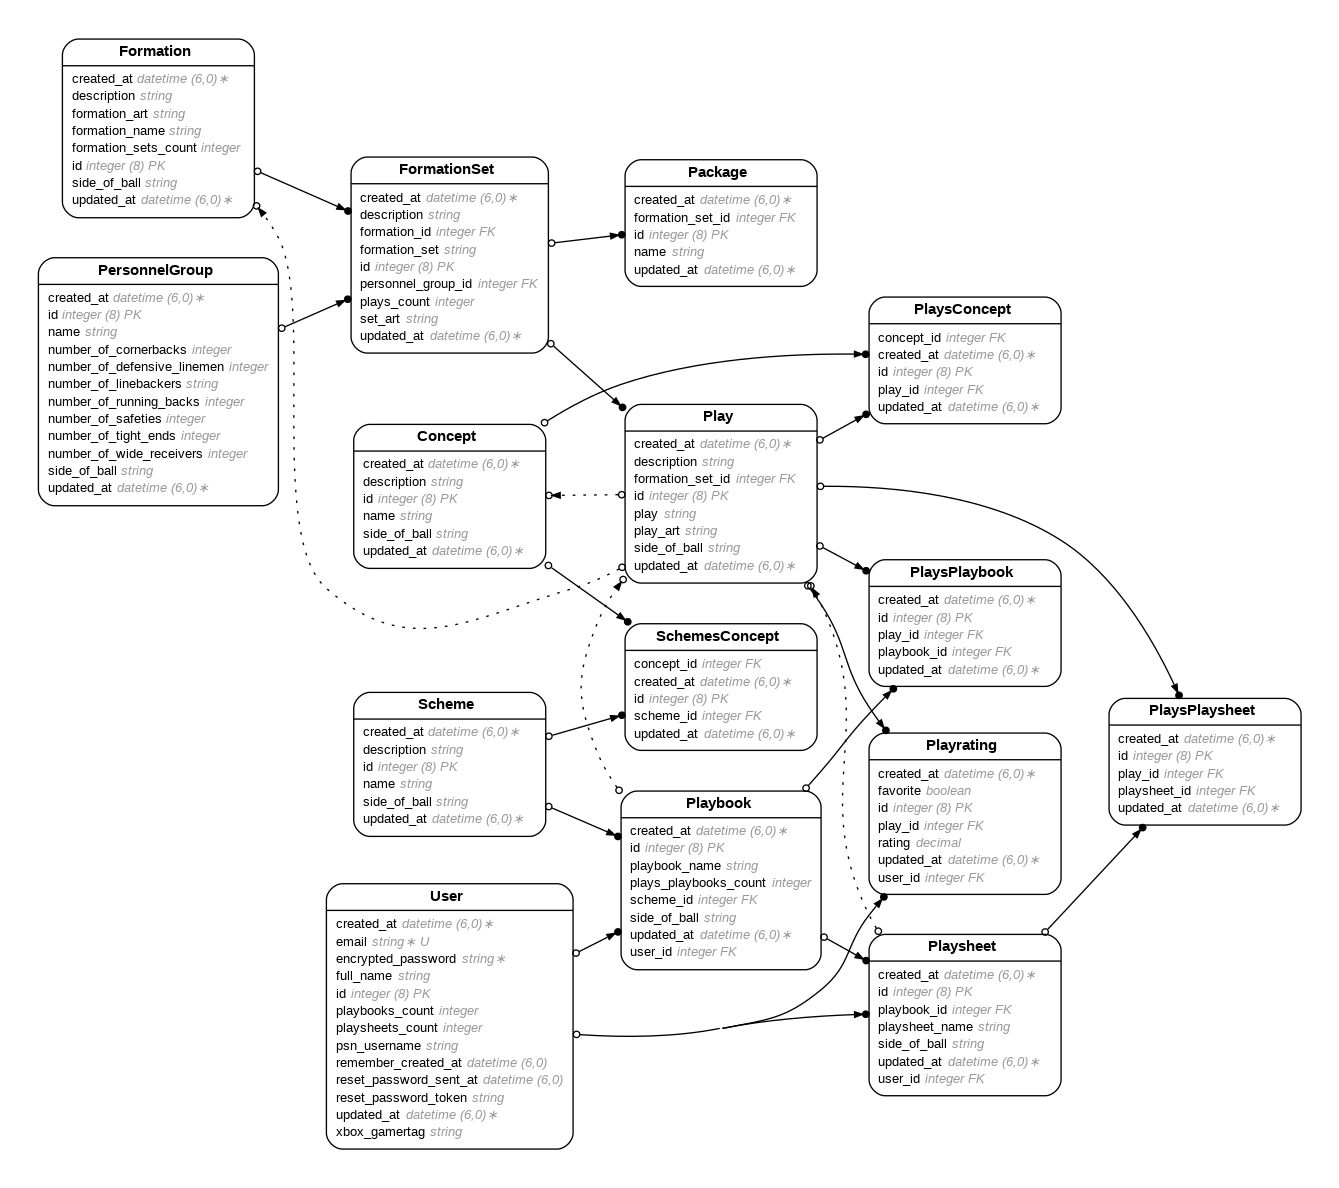
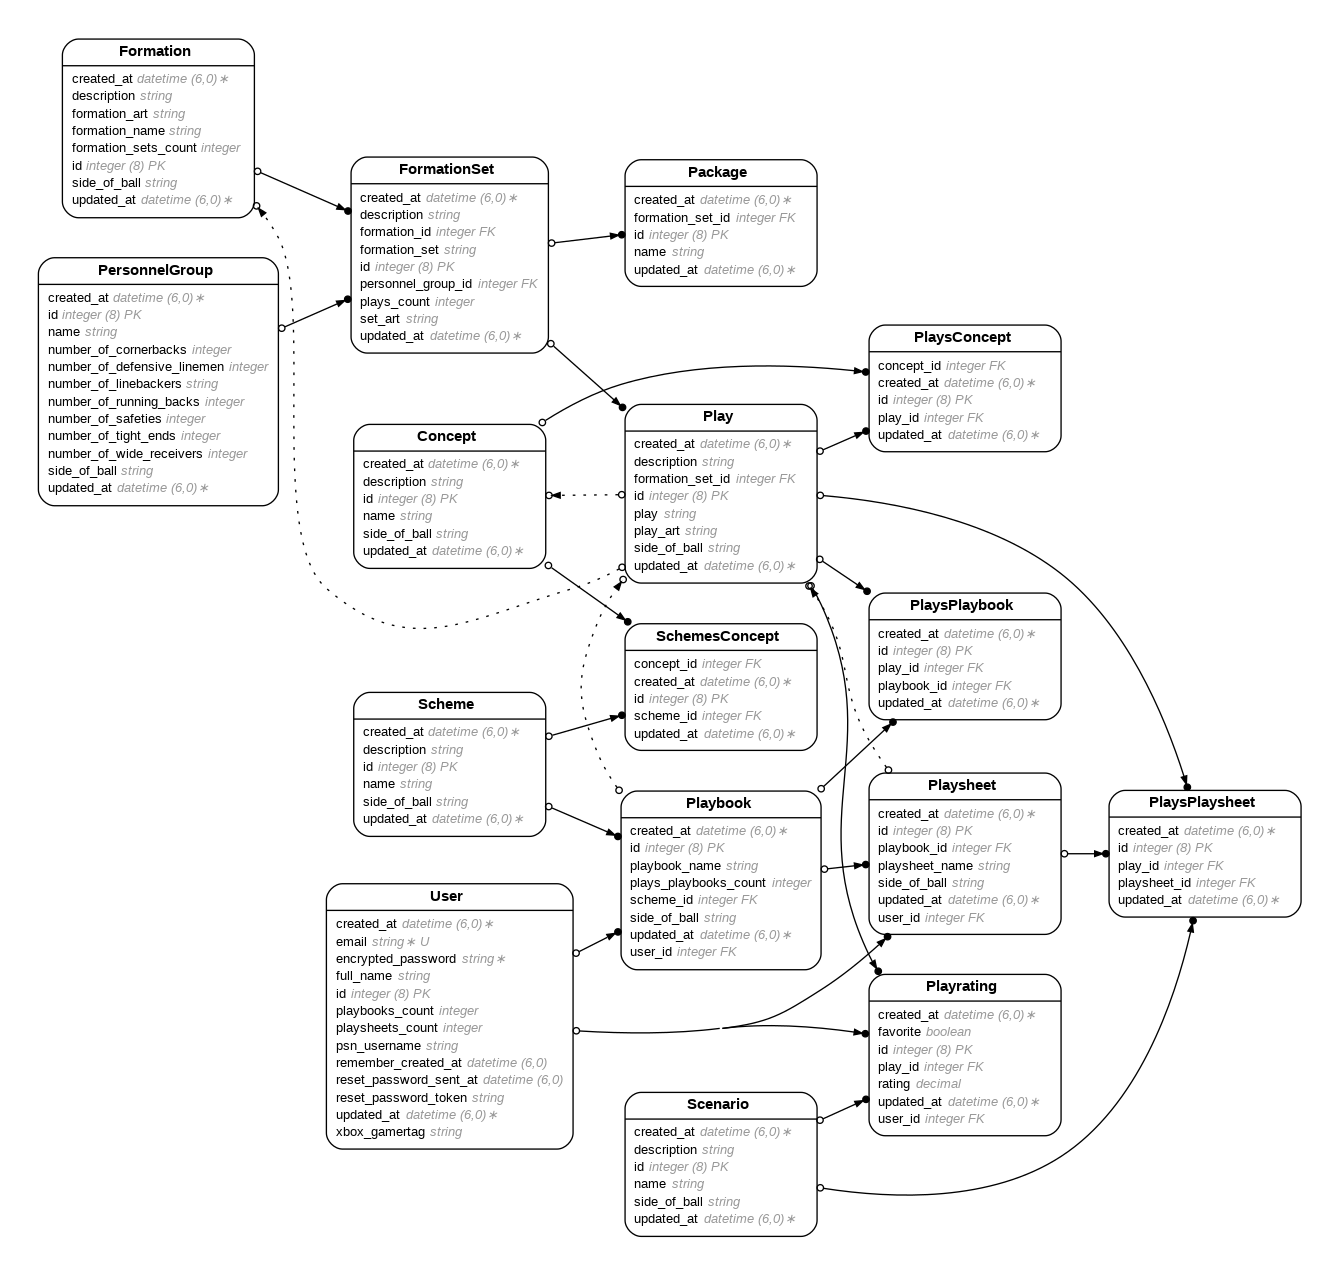
adding scenarios

diff --git a/app/controllers/scenarios_controller.rb b/app/controllers/scenarios_controller.rb
@@ -1,0 +1,58 @@
+class ScenariosController < ApplicationController
+  def index
+    matching_scenarios = Scenario.all
+
+    @list_of_scenarios = matching_scenarios.order({ :created_at => :desc })
+
+    render({ :template => "scenario_templates/index" })
+  end
+
+  def show
+    the_id = params.fetch("path_id")
+
+    matching_scenarios = Scenario.where({ :id => the_id })
+
+    @the_scenario = matching_scenarios.at(0)
+
+    render({ :template => "scenario_templates/show" })
+  end
+
+  def create
+    the_scenario = Scenario.new
+    the_scenario.name = params.fetch("query_name")
+    the_scenario.description = params.fetch("query_description")
+    the_scenario.side_of_ball = params.fetch("query_side_of_ball")
+
+    if the_scenario.valid?
+      the_scenario.save
+      redirect_to("/scenarios", { :notice => "Scenario created successfully." })
+    else
+      redirect_to("/scenarios", { :alert => the_scenario.errors.full_messages.to_sentence })
+    end
+  end
+
+  def update
+    the_id = params.fetch("path_id")
+    the_scenario = Scenario.where({ :id => the_id }).at(0)
+
+    the_scenario.name = params.fetch("query_name")
+    the_scenario.description = params.fetch("query_description")
+    the_scenario.side_of_ball = params.fetch("query_side_of_ball")
+
+    if the_scenario.valid?
+      the_scenario.save
+      redirect_to("/scenarios/#{the_scenario.id}", { :notice => "Scenario updated successfully." } )
+    else
+      redirect_to("/scenarios/#{the_scenario.id}", { :alert => the_scenario.errors.full_messages.to_sentence })
+    end
+  end
+
+  def destroy
+    the_id = params.fetch("path_id")
+    the_scenario = Scenario.where({ :id => the_id }).at(0)
+
+    the_scenario.destroy
+
+    redirect_to("/scenarios", { :notice => "Scenario deleted successfully." } )
+  end
+end

diff --git a/db/schema.rb b/db/schema.rb
@@ -10,7 +10,7 @@
 #
 # It's strongly recommended that you check this file into your version control system.
 
-ActiveRecord::Schema[8.0].define(version: 2025_12_03_005129) do
+ActiveRecord::Schema[8.0].define(version: 2025_12_12_205748) do
   # These are extensions that must be enabled in order to support this database
   enable_extension "pg_catalog.plpgsql"
 
@@ -128,6 +128,14 @@ ActiveRecord::Schema[8.0].define(version: 2025_12_03_005129) do
     t.string "playsheet_name"
     t.string "side_of_ball"
     t.integer "playbook_id"
+    t.datetime "created_at", null: false
+    t.datetime "updated_at", null: false
+  end
+
+  create_table "scenarios", force: :cascade do |t|
+    t.string "name"
+    t.string "description"
+    t.string "side_of_ball"
     t.datetime "created_at", null: false
     t.datetime "updated_at", null: false
   end

diff --git a/config/routes.rb b/config/routes.rb
@@ -1,4 +1,23 @@
 Rails.application.routes.draw do
+  # Routes for the Scenario resource:
+
+  # CREATE
+  post("/insert_scenario", { :controller => "scenarios", :action => "create" })
+
+  # READ
+  get("/scenarios", { :controller => "scenarios", :action => "index" })
+
+  get("/scenarios/:path_id", { :controller => "scenarios", :action => "show" })
+
+  # UPDATE
+
+  post("/modify_scenario/:path_id", { :controller => "scenarios", :action => "update" })
+
+  # DELETE
+  get("/delete_scenario/:path_id", { :controller => "scenarios", :action => "destroy" })
+
+  #------------------------------
+
   # Routes for the Playrating resource:
   devise_for :users
   root to: "misc#homepage"

diff --git a/app/models/scenario.rb b/app/models/scenario.rb
@@ -1,0 +1,15 @@
+# == Schema Information
+#
+# Table name: scenarios
+#
+#  id           :bigint           not null, primary key
+#  description  :string
+#  name         :string
+#  side_of_ball :string
+#  created_at   :datetime         not null
+#  updated_at   :datetime         not null
+#
+class Scenario < ApplicationRecord
+  has_many  :plays_playsheets, class_name: "PlaysPlaysheet", foreign_key: "scenario_id", dependent: :nullify
+has_many  :playratings, class_name: "Playrating", foreign_key: "scenario_id", dependent: :destroy
+end

diff --git a/app/models/playrating.rb b/app/models/playrating.rb
@@ -13,6 +13,7 @@
 class Playrating < ApplicationRecord
   belongs_to :play, required: true, class_name: "Play", foreign_key: "play_id"
   belongs_to :user, required: true, class_name: "User", foreign_key: "user_id"
+  belongs_to :scenario, class_name: "Scenario", foreign_key: "scenario_id"
 
   validates :user_id, uniqueness: { scope: :play_id }
 

diff --git a/app/models/plays_playsheet.rb b/app/models/plays_playsheet.rb
@@ -11,4 +11,5 @@
 class PlaysPlaysheet < ApplicationRecord
   belongs_to :play, required: true, class_name: "Play", foreign_key: "play_id"
   belongs_to :playsheet, required: true, class_name: "Playsheet", foreign_key: "playsheet_id"
+  belongs_to :scenario, class_name: "Scenario", foreign_key: "scenario_id"
 end

diff --git a/db/migrate/20251212205748_create_scenarios.rb b/db/migrate/20251212205748_create_scenarios.rb
@@ -1,0 +1,11 @@
+class CreateScenarios < ActiveRecord::Migration[8.0]
+  def change
+    create_table :scenarios do |t|
+      t.string :name
+      t.string :description
+      t.string :side_of_ball
+
+      t.timestamps
+    end
+  end
+end
